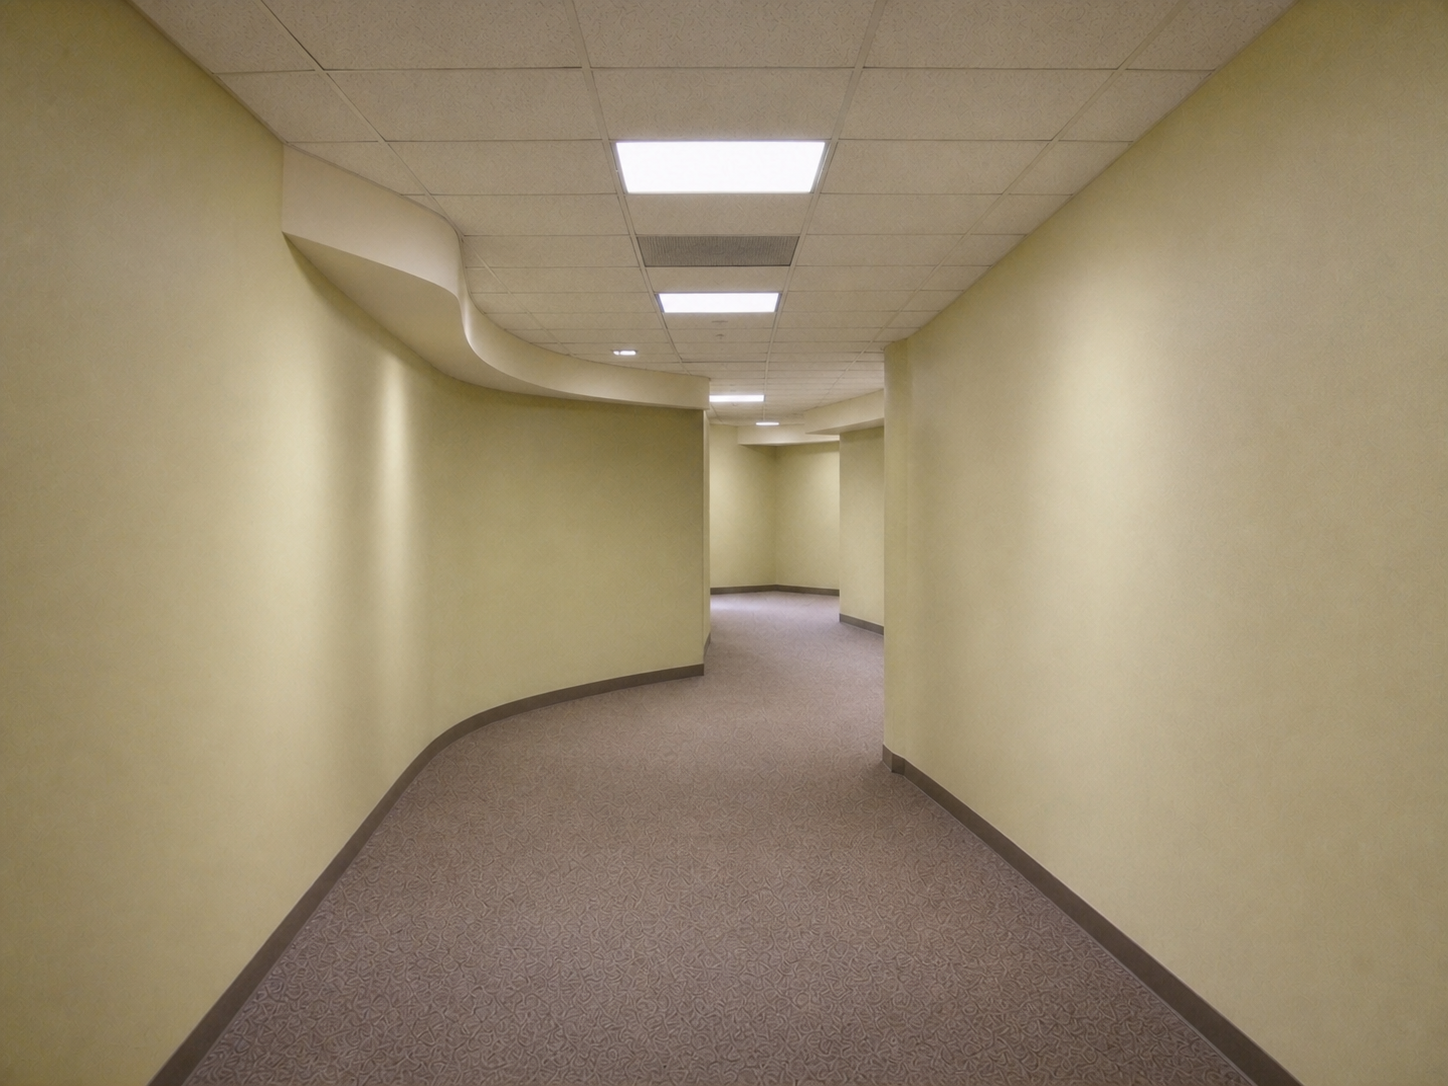
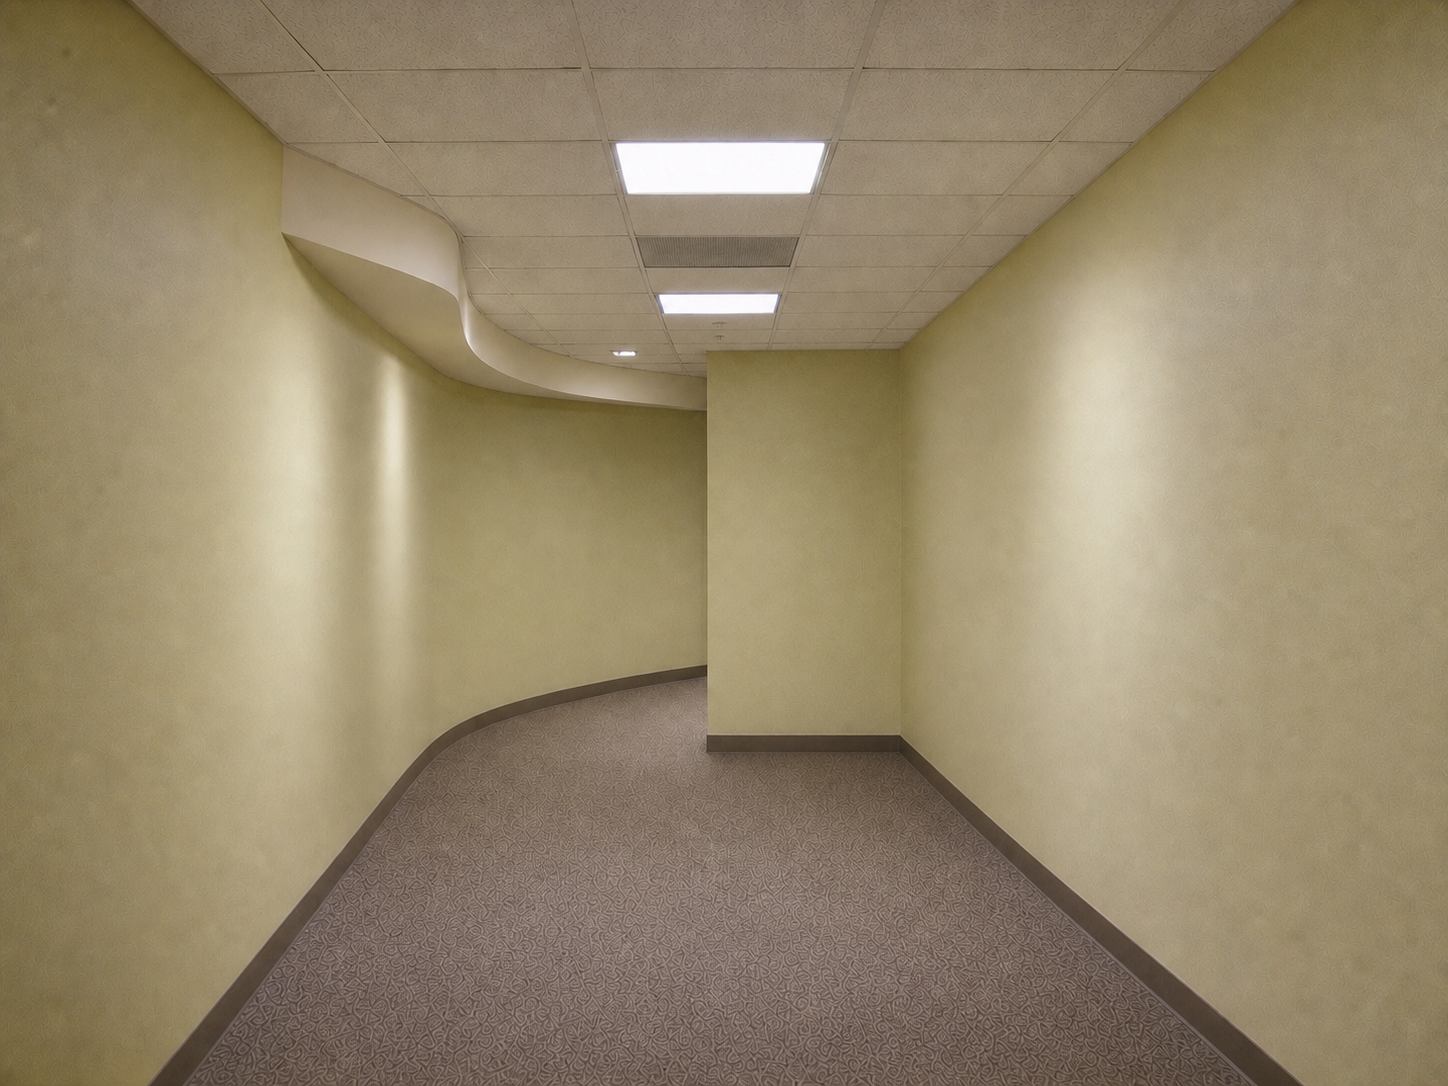
fix: enforce single-route follow-up scenes

diff --git a/docs/branch-expansion-report.md b/docs/branch-expansion-report.md
@@ -1,23 +1,24 @@
-# Level 0 branch expansion report — 0.4.0
+# Level 0 branch expansion report — 0.5.0
 
 ## Outcome
 
-The opening leads to two fixed three-movement branches with seven total playable scenes. The A branch widens gradually through `L0-0002A → L0-0003A → L0-0004A`; the B branch stays compressed through corrected `L0-0002B → L0-0003B → L0-0004B`. `L0-0003B` was replaced in 0.4.0 because its former view repeated the framing and wall rhythm of `L0-0002B` too closely. The replacement visibly passes the near obstruction and turns into a staggered pocket before `L0-0004B`.
+The opening leads to two fixed three-movement branches with seven total playable scenes. `L0-0001` is the only scene that presents two routes. Every follow-up presents exactly one visually traversable continuation. In 0.5.0 the three A-branch rasters were replaced because their offset walls and open bays could imply extra routes even though the graph registered only one. The replacements retain the original branch flow while sealing those false openings. The B branch remains compressed through corrected `L0-0002B → L0-0003B → L0-0004B`.
 
 No reverse edge, runtime randomness, branch merge, entity, or rare level boundary was introduced. A temporary abstract symbol and reset epilogue now make the current content limit testable without inventing more canon.
 
 ## Assets and approval state
 
-- `L0-0001` and `L0-0002A` retain provisional approval.
+- `L0-0001` retains provisional approval.
+- `L0-0002A`, `L0-0003A`, and `L0-0004A` retain stable IDs and URLs but use 0.5.0 single-route replacement rasters.
 - `L0-0002B` was replaced to preserve the opening soffit in the immediate foreground.
-- `L0-0003A`, `L0-0004A`, and `L0-0004B` retain their reference-grounded 1448×1086 PNG scenes.
+- `L0-0004B` retains its reference-grounded 1448×1086 PNG scene.
 - `L0-0003B` retains its stable scene ID and URL but now uses a new 1448×1086 raster grounded by both adjacent B-branch scenes.
-- The replacement and all four new scenes require human canon review.
+- All generated replacements and follow-up scenes require human canon review.
 - The first playable vertical slice remains recoverable at Git commit `41fb610`.
 
 ## Data and navigation
 
-The registry version is `vertical-slice-0.4.0`, intentionally invalidating earlier development saves. Scene records include branch ownership, provenance, approval and review state, continuity anchors, and recent changes. Every active target has exactly one matching source scene/path, and the frontier registry mirrors the two pending endpoint paths at graph depth 3.
+The registry version is `vertical-slice-0.5.0`, intentionally invalidating earlier development saves. Scene records include branch ownership, provenance, approval and review state, continuity anchors, and recent changes. Every active target has exactly one matching source scene/path, and the frontier registry mirrors the two pending endpoint paths at graph depth 3.
 
 Every playable path polygon now covers the full visible architectural opening, from its ceiling line down to its threshold, instead of selecting a wedge of floor. The overlays remain invisible in normal play. Developer inspection is opt-in through `?dev=1`; localhost alone no longer exposes the control. When enabled, the `MASKS OFF/ON` toggle shows colored polygons, path IDs, pointer coordinates, and current scene/view data without disabling path navigation.
 
@@ -25,7 +26,7 @@ Selecting either pending path saves a boundary state and opens the provisional a
 
 ## Verification contract
 
-The validator checks required production metadata, movement/status values, exact 4:3 declarations, 44 CSS-pixel mobile target minima at a 320px viewport, passage-opening mask geometry, missing targets, provenance mismatch, merges, cycles, unreachable scenes, frontier/world-version agreement, frontier depth, registry completeness, and the signature and actual dimensions of all seven scene PNGs plus both boundary PNGs. It additionally requires the boundary symbol to be RGBA. Fifteen automated model tests pass.
+The validator checks required production metadata, movement/status values, exact 4:3 declarations, 44 CSS-pixel mobile target minima at a 320px viewport, passage-opening mask geometry, missing targets, provenance mismatch, merges, cycles, unreachable scenes, frontier/world-version agreement, frontier depth, registry completeness, and the signature and actual dimensions of all seven scene PNGs plus both boundary PNGs. It additionally requires the boundary symbol to be RGBA. Sixteen automated model tests include the contract that only the opening scene may register multiple routes.
 
 ## Still unresolved
 

diff --git a/docs/generation-prompts.md b/docs/generation-prompts.md
@@ -165,6 +165,34 @@ Move a few meters through the narrow channel, passing the offset pier and follow
 Technical correction only: preserve the generated scene, composition, camera, geometry, lighting, textures, and single route while returning an exact landscape 4:3 raster. Add or remove no content.
 ```
 
+## 0.5.0 A-branch single-route revisions
+
+All three assets used the built-in `$imagegen` edit workflow. Each prompt treated the existing scene as the only edit target and adjacent scenes as fixed continuity references. The final outputs were copied directly into the stable scene URLs at 1448×1086.
+
+### L0-0002A replacement
+
+Output: `exec-1e100643-eab9-46f8-aee3-09991ac0d58a.png`.
+
+```text
+Use case: precise scene-geometry edit. Asset: replacement for playable scene L0-0002A. Image 1 is the only edit target; Images 2 and 3 are fixed previous/next continuity references. Make the existing forward-left route around the offset the only traversable corridor. Close the apparent right-side route with matching wallpapered wall, continuous base trim, and no carpet channel behind it. Preserve exact 4:3 framing, camera, Level 0 materials, lighting, texture, and the intended left passage. Make the smallest possible edit. No people, objects, text, symbols, doors, extra openings, T-junctions, side corridors, stairs, or surreal effects.
+```
+
+### L0-0003A replacement
+
+Output: `exec-49b4d89c-efd2-4124-b266-e5f867cf5176.png`.
+
+```text
+Use case: precise scene-geometry edit. Asset: replacement for playable scene L0-0003A. Image 1 is the only edit target; Images 2 and 3 are fixed previous/next continuity references. Preserve the narrow forward-left passage between the curved left wall and broad offset as the only route. Close the broad right-side carpeted space with a matching wall mass and continuous base trim so it reads as a shallow sealed bay with a visible terminating wall. Preserve exact 4:3 framing, camera, Level 0 materials, lighting, texture, and the intended center-left passage. Make the smallest possible edit. No people, objects, text, symbols, doors, extra openings, T-junctions, side corridors, stairs, or surreal effects.
+```
+
+### L0-0004A replacement
+
+Output: `exec-859ffaf0-24f0-4f5f-9367-c6d95602aedd.png`.
+
+```text
+Use case: precise scene-geometry edit. Asset: replacement for playable scene L0-0004A. Image 1 is the only edit target; Image 2 is the fixed previous-scene continuity reference. Preserve the existing right-side carpet passage as the only route. Join or overlap the central wall and near left framing wall as one continuous solid obstruction so no left-side gap or hidden path can be inferred. Preserve exact 4:3 framing, camera, Level 0 materials, lighting, texture, and the intended right passage. Make the smallest possible edit. No people, objects, text, symbols, doors, extra openings, T-junctions, side corridors, stairs, or surreal effects.
+```
+
 ## 0.4.0 B-branch and transparent-boundary revisions
 
 Both revisions used the built-in `$imagegen` workflow. The playable scene was generated directly from its two adjacent B-branch references. The symbol used a chroma-key edit followed by the skill-provided local alpha-removal script; the resulting project asset is an RGBA PNG.

diff --git a/docs/asset-replacement-history.md b/docs/asset-replacement-history.md
@@ -29,3 +29,13 @@
 - Reason: the former scene repeated `L0-0002B`'s corridor framing, central wall face, and near-right obstruction too closely. The replacement passes that obstruction, changes orientation, and introduces a staggered pocket while retaining one compressed B-branch route.
 - Data effects: updated continuity metadata, path description, path screen location, opening-shaped masks, and scene-change notes while retaining IDs and navigation provenance.
 - Approval: provisional-generated; human canon review remains required.
+
+## A branch — 0.5.0 single-route correction
+
+- Stable scene IDs and URLs: `L0-0002A`, `L0-0003A`, and `L0-0004A`.
+- Replacement generations: `exec-1e100643-eab9-46f8-aee3-09991ac0d58a.png`, `exec-49b4d89c-efd2-4124-b266-e5f867cf5176.png`, and `exec-859ffaf0-24f0-4f5f-9367-c6d95602aedd.png`.
+- Reason: offset walls and broad bays in the former rasters created additional apparent corridors even though every follow-up scene has one registered route.
+- Geometry result: `L0-0002A` and `L0-0003A` retain one forward-left continuation; `L0-0004A` retains one right-side continuation. All other apparent ways are visibly sealed.
+- Data effects: retained graph IDs and targets, aligned only the changed `L0-0002A` opening mask, revised continuity metadata, and advanced the world registry to `vertical-slice-0.5.0`.
+- Recovery point: Git commit `e50f6cc`.
+- Approval: provisional-generated; human canon review remains required.

diff --git a/README.md b/README.md
@@ -17,5 +17,5 @@ Progress is stored at `localStorage["backrooms.progress"]` with `scene_id` and `
 
 ## Asset status
 
-`L0-0001-final`, `L0-0002A`, and `L0-0002B` are provisional production assets, not final human canon approvals. Scene registration, path geometry, and image paths live in `public/scenes/scenes.json`, so images can be replaced without navigation rewrites.
+All seven playable rasters are provisional production assets, not final human canon approvals. In `vertical-slice-0.5.0`, `L0-0001` is the only scene with two routes; every follow-up registers and visually presents one continuation. Scene registration, opening-aligned path geometry, and image paths live in `public/scenes/scenes.json`, so images can be replaced without navigation rewrites.
 
